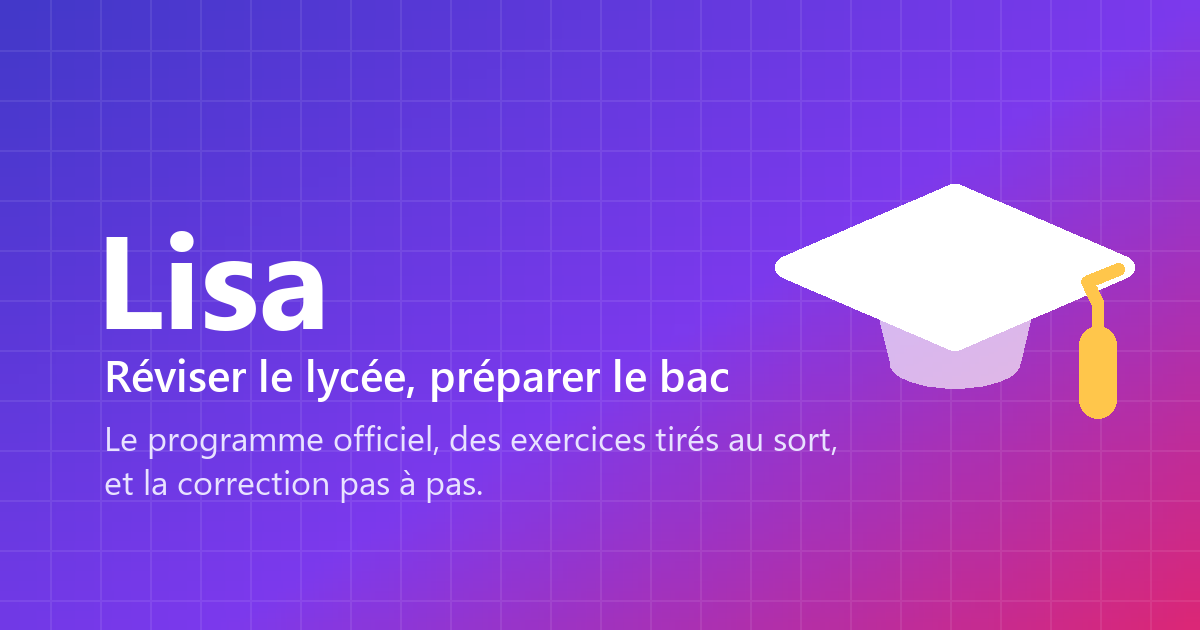
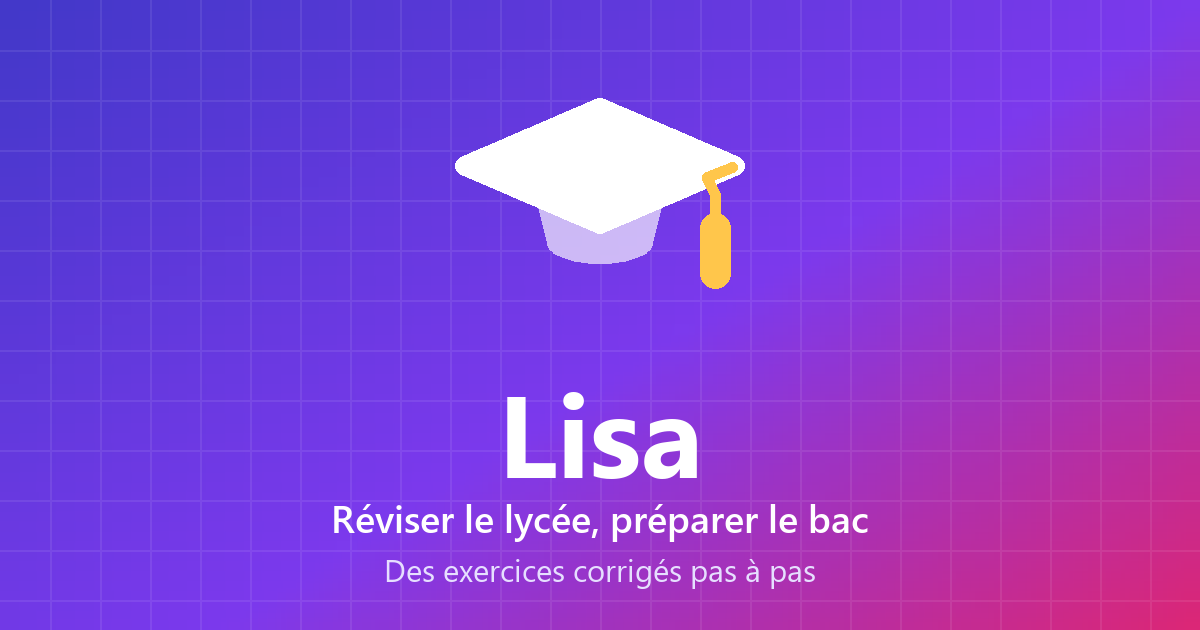
Aperçu de partage composé au centre
iOS recadre l'aperçu au carré dans la feuille de partage : le texte aligné à
gauche devenait illisible. La toque, le nom et l'accroche sont maintenant
centrés, donc lisibles aussi bien en bannière qu'en carré.

diff --git a/build.py b/build.py
@@ -216,6 +216,8 @@ def police(chemins, taille):
     return ImageFont.load_default()
 
 def vignette():
+    """Apercu de partage. Compose au centre : les applis qui recadrent au carre
+       (partage iOS) doivent encore voir la toque et le nom."""
     W, H = 1200, 630
     img = degrade(W, H)
     calque = Image.new('RGBA', (W, H), (0, 0, 0, 0))
@@ -224,17 +226,20 @@ def vignette():
         d.line([(i * 50, 0), (i * 50, H)], fill=(255, 255, 255, 20), width=2)
     for i in range(1, 13):
         d.line([(0, i * 50), (W, i * 50)], fill=(255, 255, 255, 20), width=2)
-    toque(d, 955, 322, 520)
+    toque(d, W / 2, 210, 420)
     img = Image.alpha_composite(img.convert('RGBA'), calque).convert('RGB')
     d = ImageDraw.Draw(img)
-    gros = police([FONTB, FONTA], 132)
-    moyen = police([FONTS, FONT], 44)
-    petit = police([FONT, FONTA], 34)
-    d.text((96, 186), 'Lisa', font=gros, fill=(255, 255, 255))
-    d.text((104, 344), 'R\u00e9viser le lyc\u00e9e, pr\u00e9parer le bac', font=moyen, fill=(255, 255, 255))
-    d.text((104, 414), 'Le programme officiel, des exercices tir\u00e9s au sort,', font=petit, fill=(232, 226, 255))
-    d.text((104, 458), 'et la correction pas \u00e0 pas.', font=petit, fill=(232, 226, 255))
+    gros = police([FONTB, FONTA], 116)
+    moyen = police([FONTS, FONT], 38)
+    petit = police([FONT, FONTA], 31)
+    def centre(y, t, f, c):
+        larg = d.textlength(t, font=f)
+        d.text(((W - larg) / 2, y), t, font=f, fill=c)
+    centre(352, 'Lisa', gros, (255, 255, 255))
+    centre(492, 'Réviser le lycée, préparer le bac', moyen, (255, 255, 255))
+    centre(548, 'Des exercices corrigés pas à pas', petit, (230, 223, 255))
     img.save(os.path.join(SITE, 'apercu.png'))
+    return img
 
 vignette()
 
